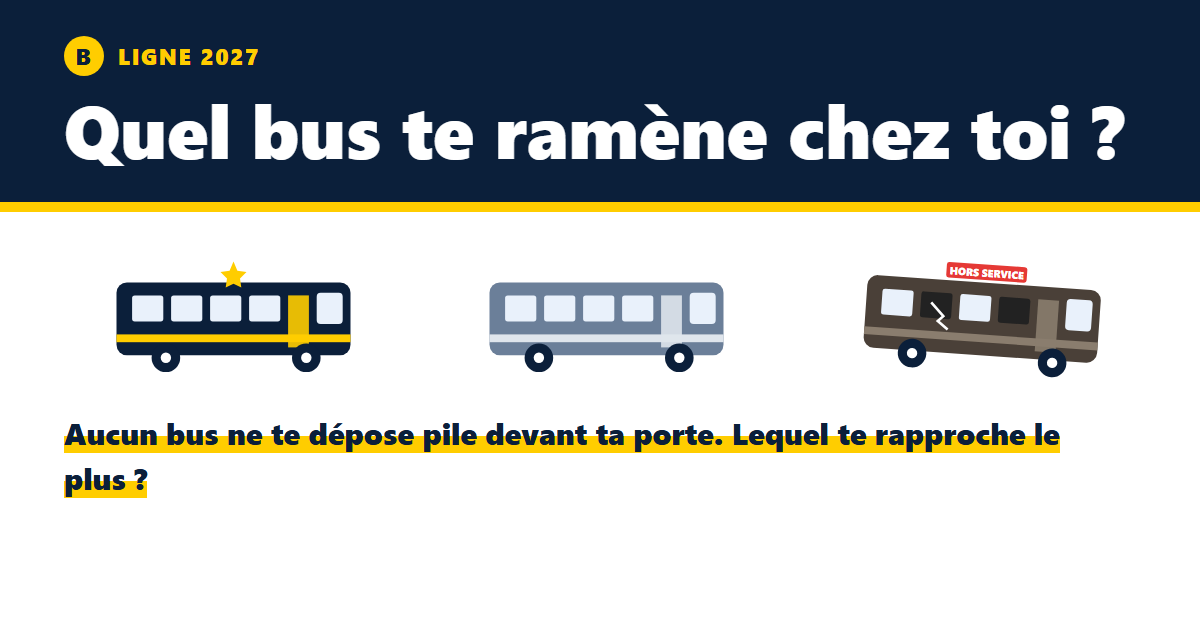
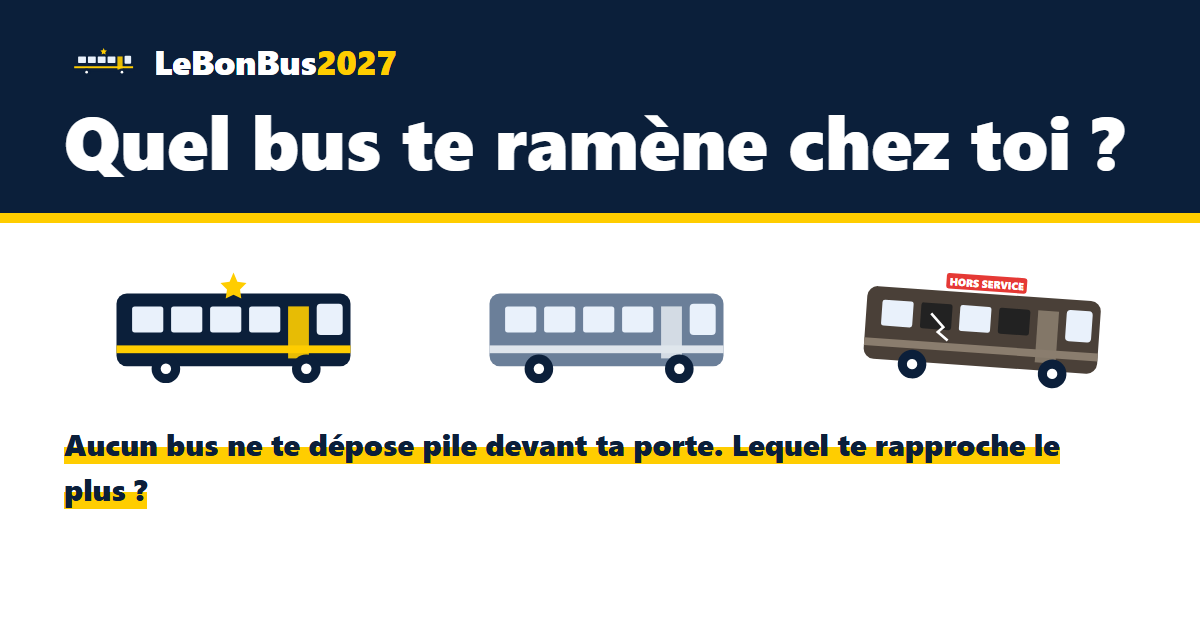
LeBonBus2027 : en-tête, ajout groupé, tout le plus beau bac gratté
- En-tête : le car de luxe et « LeBonBus2027 » ; le logo ramène à
  l'accueil (confirmation si un parcours est en cours). Nouveau nom aussi
  dans le titre de l'onglet, le ticket de partage et l'image d'aperçu.
- « Ajouter des candidats » : on coche plusieurs candidats, puis on les
  ajoute d'un coup ; ils passent ensuite un par un dans les bacs.
- « Gratter la peinture » montre tous les bus de ton plus beau bac
  (plus les 3 plus proches et l'épave), pas seulement le plus éloigné.
- Tests et simulations mis à jour.

diff --git a/e2e/parcours.spec.ts b/e2e/parcours.spec.ts
@@ -136,18 +136,30 @@ test("les en-têtes de sécurité sont servis", async ({ request }) => {
   expect(h["cross-origin-opener-policy"]).toBe("same-origin");
 });
 
-test("on peut ajouter un candidat non retenu au départ", async ({ page }) => {
+test("on peut ajouter plusieurs candidats non retenus au départ, d'un coup", async ({ page }) => {
   await page.goto("/");
   await page.getByRole("button", { name: "C'est parti" }).click();
   await classerTout(page);
-  await page.getByText(/Ajouter un candidat \(14 autres\)/).click();
-  const bouton = page.locator(".ajout button").first();
-  const nom = ((await bouton.textContent()) ?? "").replace("+", "").split("·")[0]!.trim();
-  await bouton.click();
-  await expect(page.getByRole("heading", { name: nom })).toBeVisible();
-  await expect(page.getByText("Candidat 8 sur 8")).toBeVisible();
-  await page.getByRole("button", { name: "Bof" }).click();
-  await expect(page.getByText(/Ajouter un candidat \(13 autres\)/)).toBeVisible();
+  await page.getByText(/Ajouter des candidats \(14 autres\)/).click();
+  const ajouter = page.locator(".ajouter .principal");
+  await expect(ajouter).toBeDisabled();
+  const cases = page.locator(".ajout input[type=checkbox]");
+  const noms = [];
+  for (const k of [0, 3, 5]) {
+    await cases.nth(k).check();
+    noms.push(await page.locator(".ajout label .nom").nth(k).evaluate(e => e.firstChild!.textContent!.trim()));
+  }
+  await expect(ajouter).toHaveText("Ajouter ces 3 candidats");
+  await auditAccessibilite(page, "ajout de candidats");
+  await ajouter.click();
+  // Ils passent ensuite un par un dans les bacs, dans l'ordre de la liste.
+  for (const [i, nom] of noms.entries()) {
+    await expect(page.getByRole("heading", { name: nom })).toBeVisible();
+    await expect(page.getByText(`Candidat ${8 + i} sur 10`)).toBeVisible();
+    await page.getByRole("button", { name: "Bof" }).click();
+  }
+  await expect(page.getByRole("heading", { name: "Ta gare routière" })).toBeVisible();
+  await expect(page.getByText(/Ajouter des candidats \(11 autres\)/)).toBeVisible();
 });
 
 test("chaque bus explique sa position, depuis le tableau ou la carte", async ({ page }) => {
@@ -382,4 +394,28 @@ test("« Affine ton résultat » : répondre à toutes les questions restantes",
   await expect(page.getByRole("heading", { name: "Terminus !" })).toBeVisible();
   // Plus aucune question à ajouter : le bloc disparaît.
   await expect(page.getByRole("heading", { name: "Affine ton résultat" })).toHaveCount(0);
+});
+
+test("le logo LeBonBus2027 ramène à l'accueil, après confirmation si un parcours est en cours", async ({ page }) => {
+  const problemes = surveiller(page);
+  await page.goto("/");
+  const logo = page.getByRole("link", { name: /^LeBonBus2027\s*, retour à l'accueil$/ });
+  await expect(logo).toBeVisible();
+  await page.getByRole("button", { name: "C'est parti" }).click();
+  await page.getByRole("group", { name: /Ton ressenti sur/ }).getByRole("button", { name: "Bof" }).click();
+  // Refus : on reste où on était, rien n'est perdu.
+  page.once("dialog", d => d.dismiss());
+  await logo.click();
+  await expect(page.getByText("Candidat 2 sur 7")).toBeVisible();
+  // Accord : retour à l'accueil, parcours effacé.
+  page.once("dialog", d => d.accept());
+  await logo.click();
+  await expect(page.getByRole("heading", { name: "Quel bus te ramène chez toi ?" })).toBeVisible();
+  await page.getByRole("button", { name: "C'est parti" }).click();
+  await expect(page.getByText("Candidat 1 sur 7")).toBeVisible();
+  // Depuis une page annexe aussi.
+  await page.goto("/#methode");
+  await page.getByRole("link", { name: /^LeBonBus2027\s*, retour à l'accueil$/ }).click();
+  await expect(page.getByRole("heading", { name: "Quel bus te ramène chez toi ?" })).toBeVisible();
+  expect(problemes).toEqual([]);
 });

diff --git a/src/ecrans/Classement.svelte b/src/ecrans/Classement.svelte
@@ -29,9 +29,14 @@
     titre?.focus();
   }
 
-  function ajouter(c: Candidat) {
-    ordre.push(c);
-    index = ordre.length - 1;
+  // « Ajouter des candidats » : on coche ceux qu'on veut, puis on les ajoute d'un coup ; ils passent ensuite un par un dans les bacs.
+  let coches = $state<string[]>([]);
+  function ajouter() {
+    const nouveaux = autres.filter(c => coches.includes(c.id));
+    if (!nouveaux.length) return;
+    index = ordre.length;
+    ordre.push(...nouveaux);
+    coches = [];
     titre?.focus();
   }
 </script>
@@ -84,13 +89,24 @@
 
   {#if autres.length}
     <details class="boite ajout">
-      <summary>Ajouter un candidat ({autres.length} autres)</summary>
-      <p class="discret petit">Ces candidats sont sous {selection.seuil} % dans la moyenne des sondages, ou n'y figurent pas. Ajoute ceux que tu veux voir partir de la gare.</p>
+      <summary>Ajouter des candidats ({autres.length} autres)</summary>
+      <p class="discret petit">Ces candidats sont sous {selection.seuil} % dans la moyenne des sondages, ou n'y figurent pas. Coche ceux que tu veux voir partir de la gare, puis ajoute-les.</p>
       <ul>
         {#each autres as c (c.id)}
-          <li><button class="discret" onclick={() => ajouter(c)}><Photo id={c.id} taille={40} /> + {c.nom} <span>· {c.parti}</span></button></li>
+          <li>
+            <label class:coche={coches.includes(c.id)}>
+              <input type="checkbox" value={c.id} bind:group={coches} />
+              <Photo id={c.id} taille={40} /> <span class="nom">{c.nom}<span class="parti">{c.parti}</span></span>
+            </label>
+          </li>
         {/each}
       </ul>
+      <p class="ajouter">
+        <button class="principal" onclick={ajouter} disabled={!coches.length}>
+          {coches.length ? `Ajouter ${coches.length === 1 ? "ce candidat" : `ces ${coches.length} candidats`}` : "Coche au moins un candidat"}
+        </button>
+        {#if coches.length}<button class="discret" onclick={() => (coches = [])}>Tout décocher</button>{/if}
+      </p>
     </details>
   {/if}
 
@@ -115,7 +131,11 @@
   .ajout { margin-top: 24px; }
   .ajout summary { cursor: pointer; font-weight: 600; min-height: 32px; }
   .ajout ul { list-style: none; padding: 0; margin: 8px 0 0; display: grid; gap: 6px; }
-  .ajout button { display: flex; align-items: center; gap: 10px; width: 100%; text-align: left; border-radius: var(--rayon); color: var(--encre); }
-  .ajout button span { color: var(--discret); font-size: 15px; }
+  .ajout label { display: flex; align-items: center; gap: 10px; min-height: 52px; padding: 4px 10px; border: 2px solid var(--trait); border-radius: var(--rayon); cursor: pointer; }
+  .ajout label.coche { border-color: var(--contour); background: var(--fond); box-shadow: inset 5px 0 0 var(--jaune); }
+  .ajout .nom { display: grid; font-weight: 600; line-height: 1.25; }
+  .ajout .parti { color: var(--discret); font-size: 14.5px; font-weight: 400; }
+  .ajout input { width: 24px; height: 24px; margin: 0; flex: none; accent-color: var(--marque); }
+  .ajouter { display: flex; flex-wrap: wrap; gap: 8px; margin: 12px 0 0; }
   .suite { margin-top: 24px; }
 </style>

diff --git a/src/App.svelte b/src/App.svelte
@@ -5,6 +5,7 @@
   import { candidats, meta, retenusParDefaut } from "./lib/candidats";
   import type { Niveau } from "./lib/niveaux";
   import Accueil from "./ecrans/Accueil.svelte";
+  import Bus from "./lib/Bus.svelte";
   import Classement from "./ecrans/Classement.svelte";
   import Relais from "./ecrans/Relais.svelte";
   import type { Partie } from "./lib/duo";
@@ -107,13 +108,21 @@
     duo = null;
     aller("accueil");
   }
+
+  /** Le logo ramène à l'accueil ; si un parcours est en cours, on demande d'abord (il serait effacé). */
+  function versAccueil(ev: MouseEvent) {
+    const enCours = etape !== "accueil" && (Object.keys(bacs).length > 0 || duo !== null);
+    if (enCours && !confirm("Revenir à l'accueil ? Ton parcours en cours sera effacé.")) { ev.preventDefault(); return; }
+    if (etape !== "accueil") recommencer();
+  }
 </script>
 
 <header class="bandeau">
   <div class="interieur">
-    <span class="pastille" aria-hidden="true">B</span>
-    <span class="etiquette-signal">Ligne 2027</span>
-    <span class="nom">Le Bon Bus</span>
+    <a class="logo" href="#retour" onclick={versAccueil}>
+      <svg viewBox="-34 -8 240 112" aria-hidden="true"><Bus niveau="adore" /></svg>
+      <span class="marque">LeBonBus<span>2027</span></span><span class="visually-hidden">, retour à l'accueil</span>
+    </a>
   </div>
 </header>
 
@@ -163,8 +172,13 @@
 <style>
   .bandeau { background: var(--marque); color: #fff; border-bottom: 4px solid var(--jaune); }
   .bandeau .interieur { max-width: 760px; margin: 0 auto; padding: 10px 16px; display: flex; align-items: center; gap: 10px; }
-  .pastille { width: 30px; height: 30px; border-radius: 50%; background: var(--jaune); color: var(--marque); display: grid; place-items: center; font-weight: 900; }
-  .bandeau .nom { margin-left: auto; font-weight: 800; }
+  /* Logo : le car de luxe et le nom ; tout le bloc ramène à l'accueil. */
+  .logo { display: inline-flex; align-items: center; gap: 10px; min-height: 44px; color: #fff; text-decoration: none; border-radius: var(--rayon); }
+  .logo svg { width: 54px; height: auto; flex: none; }
+  .marque { font-size: 23px; font-weight: 900; letter-spacing: -0.01em; line-height: 1; }
+  .marque span { color: var(--jaune); }
+  .logo:hover .marque { text-decoration: underline; text-decoration-color: var(--jaune); text-underline-offset: 4px; }
+  .logo:focus-visible { outline: 3px solid var(--jaune); outline-offset: 3px; }
   footer { max-width: 760px; margin: 0 auto; padding: 16px 16px 32px; color: var(--discret); font-size: 15px; border-top: 4px solid var(--jaune); }
   footer p { margin-bottom: 4px; }
   footer nav { margin-top: 8px; line-height: 2.4; }

diff --git a/e2e/simulations.spec.ts b/e2e/simulations.spec.ts
@@ -87,11 +87,14 @@ for (let s = 1; s <= NB; s++) {
       }
     };
     await classerCeuxAffiches();
-    // De 0 à 14 candidats ajoutés depuis « Ajouter un candidat ».
+    // De 0 à 14 candidats ajoutés depuis « Ajouter des candidats », cochés en une ou deux fois.
     const ajouts = s % 4 === 1 ? 0 : s % 4 === 0 ? 14 : 1 + Math.floor(alea() * 13);
-    for (let k = 0; k < ajouts; k++) {
-      await page.getByText(/^Ajouter un candidat/).click();
-      await un(await page.locator(".ajout li button").all()).click();
+    for (const lot of ajouts > 1 && alea() < 0.5 ? [Math.ceil(ajouts / 2), Math.floor(ajouts / 2)] : [ajouts]) {
+      if (!lot) continue;
+      await page.getByText(/^Ajouter des candidats/).click();
+      const cases = [...(await page.locator(".ajout input[type=checkbox]").all())].sort(() => alea() - 0.5).slice(0, lot);
+      for (const c of cases) await c.check();
+      await page.locator(".ajouter .principal").click();
       await classerCeuxAffiches();
     }
     await expect(page.getByRole("heading", { name: "Ta gare routière" })).toBeVisible();
@@ -164,7 +167,12 @@ for (let s = 1; s <= NB; s++) {
     tab.forEach((t, k) => expect(t.bus, ctx).toBe(BUS[peint[k]!]));
     const peinture = Object.fromEntries(tab.map((t, k) => [t.nom, peint[k]!]));
 
-    // 2. « On a gratté la peinture » : bus de ta gare, bonne peinture, bon effet.
+    // 2. « On a gratté la peinture » : les 3 plus proches, tout ton plus beau bac et ton épave ; bonne peinture, bon effet.
+    const hautVu = BEAUTE.find(n => tab.some(t => bacs[t.nom] === n));
+    const basVu = [...BEAUTE].reverse().find(n => tab.some(t => bacs[t.nom] === n));
+    const vus = new Set([...tab.slice(0, 3).map(t => t.nom), ...tab.filter(t => bacs[t.nom] === hautVu).map(t => t.nom)]);
+    if (basVu !== hautVu) vus.add(tab.find(t => bacs[t.nom] === basVu)!.nom);
+    expect(new Set(noms2), ctx).toEqual(vus);
     noms2.forEach((nom, k) => {
       const r = resumes2[k]!;
       expect(nom in bacs, ctx).toBe(true);

diff --git a/src/lib/revelation.ts b/src/lib/revelation.ts
@@ -98,8 +98,8 @@ function rangement(niveau: Niveau | undefined) {
 }
 
 /**
- * Bus mis en avant : les 3 plus proches, ton plus beau bus (le plus éloigné s'il y en a plusieurs)
- * et ton épave (la plus proche s'il y en a plusieurs).
+ * Bus mis en avant (« Gratter la peinture ») : les 3 plus proches, tous les bus de ton plus beau bac, puis ton épave
+ * (la plus proche s'il y en a plusieurs). Ton plus beau bus est le plus éloigné de ce bac.
  */
 export function reveler(classement: readonly Classe<Candidat>[], bacs: Readonly<Record<string, Niveau>>, tirage: () => number = tirageCrypto): Revelation {
   const meilleur = classement[0]!;
@@ -107,7 +107,8 @@ export function reveler(classement: readonly Classe<Candidat>[], bacs: Readonly<
   const haut = presents[0], bas = presents.length > 1 ? presents.at(-1) : undefined;
   const beau = haut ? classement.filter(c => bacs[c.candidat.id] === haut).at(-1) : undefined;
   const epave = bas ? classement.find(c => bacs[c.candidat.id] === bas) : undefined;
-  const focus = [...new Set([...classement.slice(0, 3), beau, epave].filter((c): c is Classe<Candidat> => !!c))];
+  const dansLeHaut = haut ? classement.filter(c => bacs[c.candidat.id] === haut) : [];
+  const focus = [...new Set([...classement.slice(0, 3), ...dansLeHaut, epave].filter((c): c is Classe<Candidat> => !!c))];
   const rappel = classement.filter((c, i) => i < 3 || (!!haut && bacs[c.candidat.id] === haut));
 
   const n = meilleur.candidat.nom, nm = meilleur.trajet.arrets;

diff --git a/src/lib/ticket.ts b/src/lib/ticket.ts
@@ -113,11 +113,11 @@ export async function dessinerTicket(
   ctx.fillStyle = NUIT; ctx.fillRect(x0, y0, w, 230);
   ctx.fillStyle = JAUNE; ctx.fillRect(x0, y0 + 230, w, 10);
   ctx.restore();
-  ctx.fillStyle = JAUNE; ctx.beginPath(); ctx.arc(x0 + 72, y0 + 66, 30, 0, 2 * Math.PI); ctx.fill();
-  ctx.fillStyle = NUIT; police(ctx, 900, 34); ctx.textAlign = "center"; ctx.fillText("B", x0 + 72, y0 + 78);
   ctx.textAlign = "left";
-  ctx.fillStyle = JAUNE; police(ctx, 800, 22, "3px"); ctx.fillText("TITRE DE TRANSPORT", x0 + 122, y0 + 54);
-  ctx.fillStyle = "#ffffff"; police(ctx, 900, 30, "1px"); ctx.fillText("LIGNE 2027 · LE BON BUS", x0 + 122, y0 + 90);
+  ctx.fillStyle = JAUNE; police(ctx, 800, 22, "3px"); ctx.fillText("TITRE DE TRANSPORT", x0 + 50, y0 + 54);
+  // Le nom : « LeBonBus » en blanc, « 2027 » en jaune.
+  police(ctx, 900, 36); ctx.fillStyle = "#ffffff"; ctx.fillText("LeBonBus", x0 + 50, y0 + 94);
+  ctx.fillStyle = JAUNE; ctx.fillText("2027", x0 + 50 + ctx.measureText("LeBonBus").width, y0 + 94);
   ctx.textAlign = "right"; ctx.fillStyle = JAUNE; police(ctx, 800, 22, "3px"); ctx.fillText("1 VOYAGE", x0 + w - 50, y0 + 54);
   ctx.textAlign = "left"; ctx.fillStyle = "#ffffff"; police(ctx, 900, 54);
   couper(ctx, "Quel bus te ramène chez toi ?", w - 110).forEach((l, i) => ctx.fillText(l, x0 + 50, y0 + 172 + i * 60));

diff --git a/src/lib/revelation.test.ts b/src/lib/revelation.test.ts
@@ -37,15 +37,17 @@ describe("reveler", () => {
 
   it("« Pour rappel » reprend tous les bus du plus beau bac, pas seulement le plus éloigné", () => {
     const r = reveler(classement, { a: "bof", b: "bof", c: "pas", d: "adore", e: "adore" });
-    expect(r.focus.map(c => c.candidat.id)).not.toContain("d");
     expect(r.haut).toBe("adore");
     expect(r.rappel.map(c => c.candidat.id)).toEqual(["a", "b", "c", "d", "e"]);
   });
 
-  it("met en avant 5 bus au plus, sans doublon", () => {
+  it("met en avant les 3 plus proches, tout ton plus beau bac et ton épave, sans doublon", () => {
     const r = reveler(classement, { a: "jamais", b: "adore", c: "bof", d: "pas", e: "bof" });
-    expect(r.focus.length).toBeLessThanOrEqual(5);
-    expect(new Set(r.focus).size).toBe(r.focus.length);
+    expect(r.focus.map(c => c.candidat.id)).toEqual(["a", "b", "c"]);
+    const r2 = reveler(classement, { a: "bof", b: "pas", c: "bof", d: "adore", e: "adore" });
+    expect(r2.focus.map(c => c.candidat.id)).toEqual(["a", "b", "c", "d", "e"]);
+    const r3 = reveler([...classement, cand("f", 15)], { a: "bof", b: "bof", c: "bof", d: "adore", e: "jamais", f: "adore" });
+    expect(r3.focus.map(c => c.candidat.id)).toEqual(["a", "b", "c", "d", "f", "e"]);
   });
 
   it("reste correct si tout le monde est inconnu", () => {

diff --git a/src/lib/simulation.test.ts b/src/lib/simulation.test.ts
@@ -99,7 +99,11 @@ describe(`simulations (${N} parcours)`, () => {
       const ctx = `parcours ${i}`;
       expect(r.meilleur, ctx).toBe(p.classement[0]);
       expect(new Set(r.focus).size, ctx).toBe(r.focus.length);
-      expect(r.focus.length, ctx).toBeLessThanOrEqual(5);
+      const epave = p.classement.find(c => p.bacs[c.candidat.id] === ORDRE_BEAUTE.findLast(n => p.classement.some(x => p.bacs[x.candidat.id] === n)));
+      const vus = new Set([...p.classement.slice(0, 3), ...p.classement.filter(c => !!r.haut && p.bacs[c.candidat.id] === r.haut)]);
+      if (r.epave) vus.add(r.epave);
+      expect(new Set(r.focus), ctx).toEqual(vus);
+      if (r.epave) expect(r.epave, ctx).toBe(epave);
       const haut = ORDRE_BEAUTE.find(n => p.classement.some(c => p.bacs[c.candidat.id] === n));
       expect(r.haut, ctx).toBe(haut);
       if (r.beau) {

diff --git a/index.html b/index.html
@@ -3,7 +3,7 @@
 <head>
   <meta charset="utf-8">
   <meta name="viewport" content="width=device-width,initial-scale=1">
-  <title>Le Bon Bus 2027 · Quel bus te ramène chez toi ?</title>
+  <title>LeBonBus2027 · Quel bus te ramène chez toi ?</title>
   <meta name="description" content="Range les candidats à la présidentielle 2027 selon ton ressenti, réponds aux questions, et regarde quel bus s'arrête vraiment le plus près de chez toi. Rien n'est enregistré.">
   <!-- Aperçu des liens partagés. VITE_SITE_URL (fichier .env) = adresse du site, sans barre finale, à renseigner avant la mise en ligne. -->
   <meta property="og:type" content="website">

diff --git a/src/lib/BusAnime.svelte b/src/lib/BusAnime.svelte
@@ -69,6 +69,6 @@
     .brille svg { filter: drop-shadow(0 0 5px #ffcd00); }
     .brille .eclat { opacity: 1; }
     .panne svg { transform: translateY(5px) rotate(5deg); filter: grayscale(0.7) brightness(0.85); }
-    .panne .fumee { opacity: 0.6; transform: translate(-6px, -18px); }
+    .panne .fumee { opacity: 0.6; transform: translate(-4px, -4px); }
   }
 </style>
